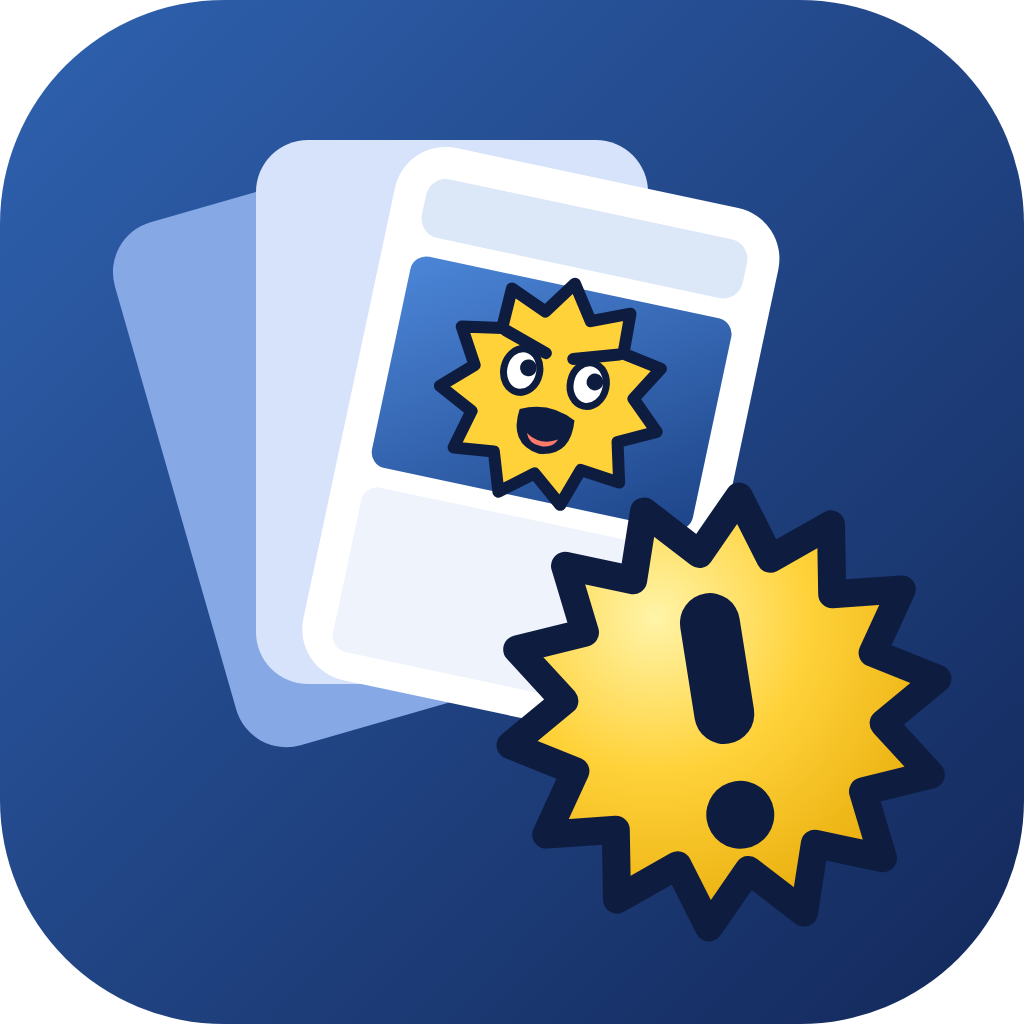
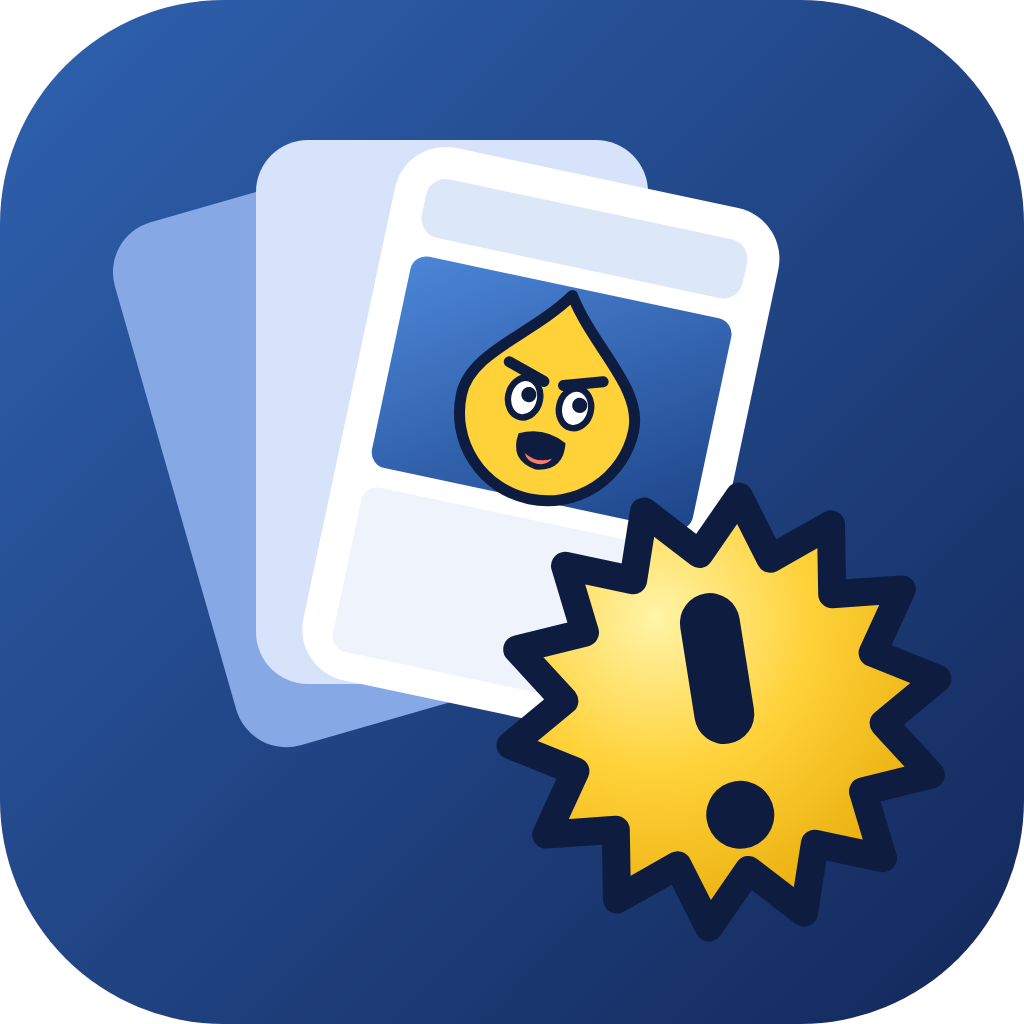
Botto diventa una goccia; nuova firma in fondo alla barra laterale
Claude-Session: https://claude.ai/code/session_018uwoEUWAMGFUru9K7APDH8

Changed region(s): [[0.4062, 0.2812, 0.6562, 0.5]]

diff --git a/web/app.js b/web/app.js
@@ -28,7 +28,7 @@
   };
   var LOGO = '<svg width="40" height="40" viewBox="0 0 512 512" aria-hidden="true"><rect width="512" height="512" rx="112" fill="#1f4a92"/>' +
     '<rect x="84" y="86" width="196" height="272" rx="26" transform="rotate(-16 182 222)" fill="#86a9e6"/><rect x="128" y="70" width="196" height="272" rx="26" fill="#d6e3fa"/>' +
-    '<g transform="rotate(12 270 224)"><rect x="172" y="86" width="196" height="272" rx="26" fill="#fff"/><rect x="188" y="102" width="164" height="30" rx="10" fill="#dce7f8"/><rect x="188" y="142" width="164" height="108" rx="8" fill="#2d5fae"/><polygon points="270.0,140.0 281.6,156.7 300.3,148.9 301.0,169.2 320.9,172.7 310.6,190.2 325.4,204.0 307.3,213.0 312.3,232.7 292.2,230.5 285.8,249.7 270.0,237.0 254.2,249.7 247.8,230.5 227.7,232.7 232.7,213.0 214.6,204.0 229.4,190.2 219.1,172.7 239.0,169.2 239.7,148.9 258.4,156.7" fill="#ffd23a" stroke="#0e1c40" stroke-width="6" stroke-linejoin="round"/><ellipse cx="253" cy="188" rx="9" ry="11" fill="#fff" stroke="#0e1c40" stroke-width="3.5"/><ellipse cx="287" cy="188" rx="9" ry="11" fill="#fff" stroke="#0e1c40" stroke-width="3.5"/><circle cx="256" cy="186" r="4.2" fill="#0e1c40"/><circle cx="290" cy="186" r="4.2" fill="#0e1c40"/><path d="M241 170l22 7M299 170l-22 7" stroke="#0e1c40" stroke-width="6" stroke-linecap="round"/><path d="M256 207q14 -7 28 0 2 18 -14 20 -16 -2 -14 -20z" fill="#0e1c40"/><path d="M262 218q8 5 16 0 -2 5 -8 5 -6 0 -8 -5z" fill="#ff7a6b"/><rect x="188" y="260" width="164" height="84" rx="8" fill="#eef3fc"/></g>' +
+    '<g transform="rotate(12 270 224)"><rect x="172" y="86" width="196" height="272" rx="26" fill="#fff"/><rect x="188" y="102" width="164" height="30" rx="10" fill="#dce7f8"/><rect x="188" y="142" width="164" height="108" rx="8" fill="#2d5fae"/><path d="M270 146C286 170 314 184 314 206A44 44 0 0 1 226 206C226 184 254 170 270 146Z" fill="#ffd23a" stroke="#0e1c40" stroke-width="5.5" stroke-linejoin="round"/><ellipse cx="257" cy="201" rx="8" ry="10" fill="#fff" stroke="#0e1c40" stroke-width="3.2"/><ellipse cx="283" cy="201" rx="8" ry="10" fill="#fff" stroke="#0e1c40" stroke-width="3.2"/><circle cx="259" cy="199" r="3.8" fill="#0e1c40"/><circle cx="285" cy="199" r="3.8" fill="#0e1c40"/><path d="M246 185l19 6M294 185l-19 6" stroke="#0e1c40" stroke-width="5.5" stroke-linecap="round"/><path d="M258 219q12 -6 24 0 2 14 -12 16 -14 -2 -12 -16z" fill="#0e1c40"/><path d="M263 228q7 4 14 0 -2 4 -7 4 -5 0 -7 -4z" fill="#ff7a6b"/><rect x="188" y="260" width="164" height="84" rx="8" fill="#eef3fc"/></g>' +
     '<polygon points="370,248 385,279 416,262 416,297 451,295 436,326 469,339 442,362 465,387 431,396 442,429 407,422 402,456 374,435 354,464 339,433 308,450 308,415 273,417 288,386 255,373 282,350 259,325 293,316 282,283 317,290 322,256 350,277" fill="#ffd23a" stroke="#0e1c40" stroke-width="14" stroke-linejoin="round"/><g transform="rotate(-9 362 356)"><rect x="347" y="296" width="30" height="76" rx="15" fill="#0e1c40"/><circle cx="362" cy="408" r="17" fill="#0e1c40"/></g></svg>';
 
 
@@ -819,7 +819,7 @@
     var navHtml = NAV.map(function (n) { return navBtn(n[0], n[1]); }).join('');
     APP.innerHTML =
       '<div class="shell" data-view="' + esc(ui.view) + '"><aside class="side"><div class="brand">' + LOGO + '<span><b>Coglio</b><small>Proxy Archive</small></span></div>' + navHtml +
-      '<div class="side-foot"><span class="pips">' + pips() + '</span><small>Versione <b>' + esc(String(window.CPA_VERSION || '')) + '</b><br>Fatto dal Coglio. Codighel!</small></div></aside>' +
+      '<div class="side-foot"><span class="pips">' + pips() + '</span><small>Versione <b>' + esc(String(window.CPA_VERSION || '')) + '</b><br>Applicazione approvata dal Pisciatore in persona</small></div></aside>' +
       '<main class="main"><div class="mobile-brand">' + LOGO + '<span><b>Coglio</b><small>Proxy Archive</small></span></div>' + NEWS.banner() + viewHtml() + '</main></div>' +
       '<nav class="tabs" aria-label="Sezioni">' + navHtml + '</nav>';
     if (ui.view === 'archive' && state.decks.length) updateArchiveList();

diff --git a/web/changelog.js b/web/changelog.js
@@ -4,7 +4,7 @@ window.CPA_CHANGELOG = [
   { v: '3.4.0', date: '1 novembre 2026', title: 'Una veste nuova, tutta Coglio', items: [
     { t: 'Denim e banana', d: 'L\'app ha i colori del Coglio: la barra laterale blu notte, il giallo banana per ciò che conta (voce attiva, bracket, Codighel!) e una nuova icona con il suo bel botto.' },
     { t: 'Codighel! ha il suo adesivo', d: 'L\'esclamazione del gruppo compare come un adesivo fumettoso nell\'avviso delle carte già stampate e in quello delle novità.' },
-    { t: 'Botto, la mascotte', d: 'Nell\'icona, al posto dell\'arte della carta, c\'è Botto: un\'esplosione gialla che urla Codighel!. È un personaggio tutto nostro.' },
+    { t: 'Botto, la mascotte', d: 'Nell\'icona, al posto dell\'arte della carta, c\'è Botto: una goccia gialla che urla Codighel!. È un personaggio tutto nostro.' },
     { t: 'Un colore di mana per sezione', d: 'Archivio è blu, Mazzi verde, Importa nero, Designer rosso, Stampa bianco, Dati incolore: il simbolo sta davanti al titolo e, grande e sfumato, sullo sfondo. La striscia dei cinque colori accompagna logo e menu; i titoli hanno il carattere delle carte.' },
     { t: 'Mazzi come carte', d: 'Il segno accanto al nome del mazzo è una carta dritta quando è attivo, girata quando è smontato, tratteggiata se non è ancora stampato.' },
     { t: 'Copie come orbe di mana', d: 'Nell\'archivio ogni copia è un\'orbe: piena se è libera, vuota se è in uso (si distingue anche senza i colori).' },
